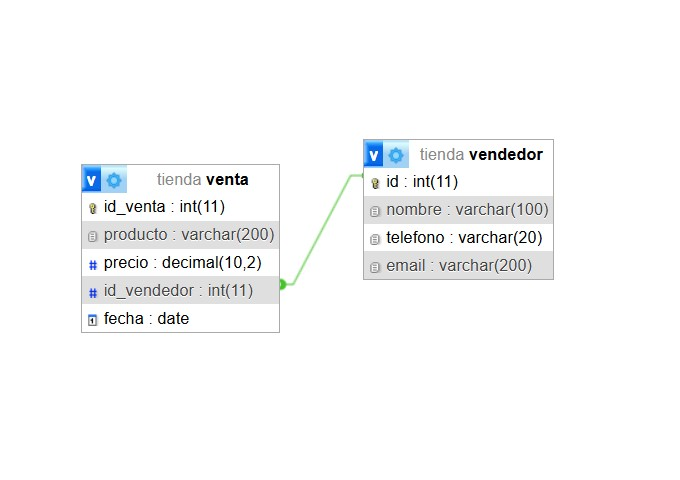
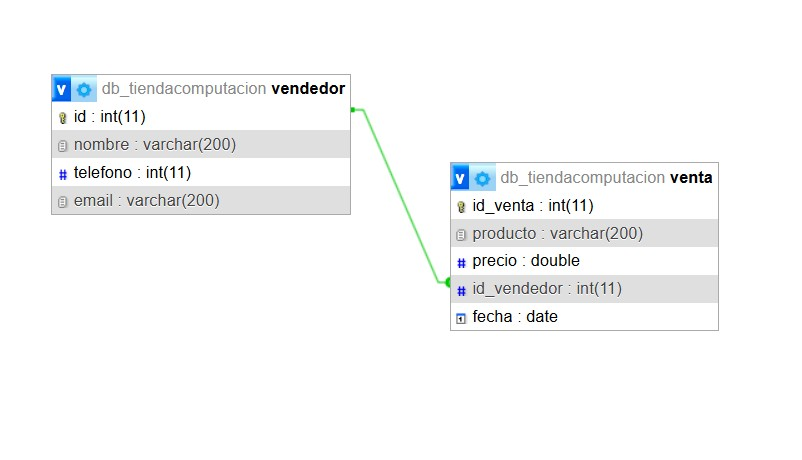
Agregado link para visualizacion item->Category en template/seller-list. Pequeña correccion a id_vendedor en DB para que funcione correctamente servicio de agregar venta. Mejorado el DER para que muestre correctamente la relacion

Changed region(s): [[0.0618, 0.1522, 0.8956, 0.7304], [0.4324, 0.5174, 0.4632, 0.5783]]

diff --git a/templates/sellers-list.php b/templates/sellers-list.php
@@ -1,13 +1,15 @@
-<?php 
+<?php
 require_once 'templates/layout/header.php';
 
 $vendedoresPorPagina = 5;
 $totalVendedores = count($sellers);
 $totalPaginas = ceil($totalVendedores / $vendedoresPorPagina);
 
-$paginaActual = isset($_GET['page']) ? (int)$_GET['page'] : 1;
-if ($paginaActual < 1) $paginaActual = 1;
-if ($paginaActual > $totalPaginas) $paginaActual = $totalPaginas;
+$paginaActual = isset($_GET['page']) ? (int) $_GET['page'] : 1;
+if ($paginaActual < 1)
+  $paginaActual = 1;
+if ($paginaActual > $totalPaginas)
+  $paginaActual = $totalPaginas;
 
 $inicio = ($paginaActual - 1) * $vendedoresPorPagina;
 $vendedoresPagina = array_slice($sellers, $inicio, $vendedoresPorPagina);
@@ -23,14 +25,23 @@ $vendedoresPagina = array_slice($sellers, $inicio, $vendedoresPorPagina);
           <th>#</th>
           <th>Nombre</th>
           <th>Teléfono</th>
+          <!-- <th>#</th> -->
         </tr>
       </thead>
       <tbody>
         <?php if (!empty($vendedoresPagina)): ?>
-          <?php foreach($vendedoresPagina as $index => $seller): ?>
+          <?php foreach ($vendedoresPagina as $index => $seller): ?>
             <tr>
               <td><?= $inicio + $index + 1 ?></td>
-              <td><?= htmlspecialchars($seller->nombre) ?></td>
+              <!-- Link para mostrar items (ventas) por categoria (vendedor) -->
+              <td><a href="<?= BASE_URL ?>vendedores/<?= $seller->id ?>" class="icon-link icon-link-hover fw-bolder text-capitalize"><svg
+                    xmlns="http://www.w3.org/2000/svg" class="bi" viewBox="0 0 16 16" aria-hidden="true">
+                    <path
+                      d="M4 1.5H3a2 2 0 0 0-2 2V14a2 2 0 0 0 2 2h10a2 2 0 0 0 2-2V3.5a2 2 0 0 0-2-2h-1v1h1a1 1 0 0 1 1 1V14a1 1 0 0 1-1 1H3a1 1 0 0 1-1-1V3.5a1 1 0 0 1 1-1h1v-1z" />
+                    <path
+                      d="M9.5 1a.5.5 0 0 1 .5.5v1a.5.5 0 0 1-.5.5h-3a.5.5 0 0 1-.5-.5v-1a.5.5 0 0 1 .5-.5h3zm-3-1A1.5 1.5 0 0 0 5 1.5v1A1.5 1.5 0 0 0 6.5 4h3A1.5 1.5 0 0 0 11 2.5v-1A1.5 1.5 0 0 0 9.5 0h-3z" />
+                  </svg><?= htmlspecialchars($seller->nombre) ?></a></td>
+
               <td><?= htmlspecialchars($seller->telefono) ?></td>
             </tr>
           <?php endforeach; ?>
